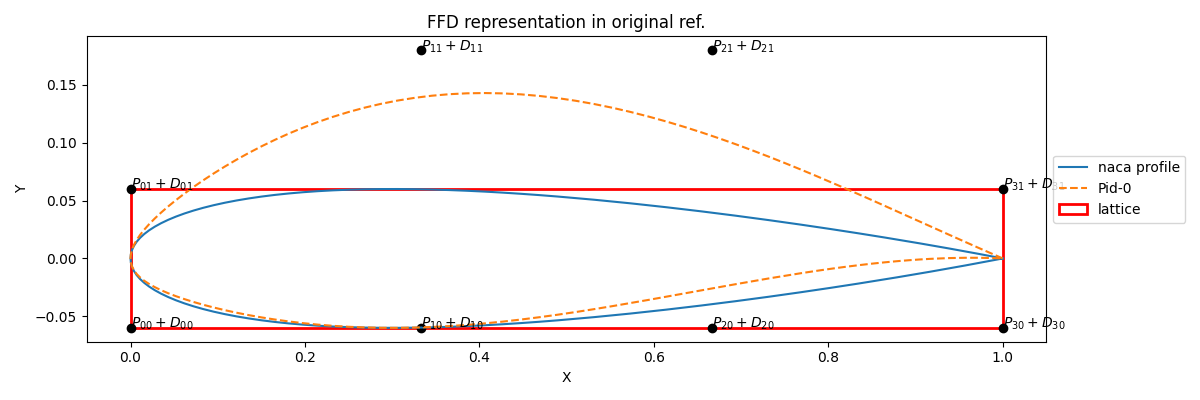
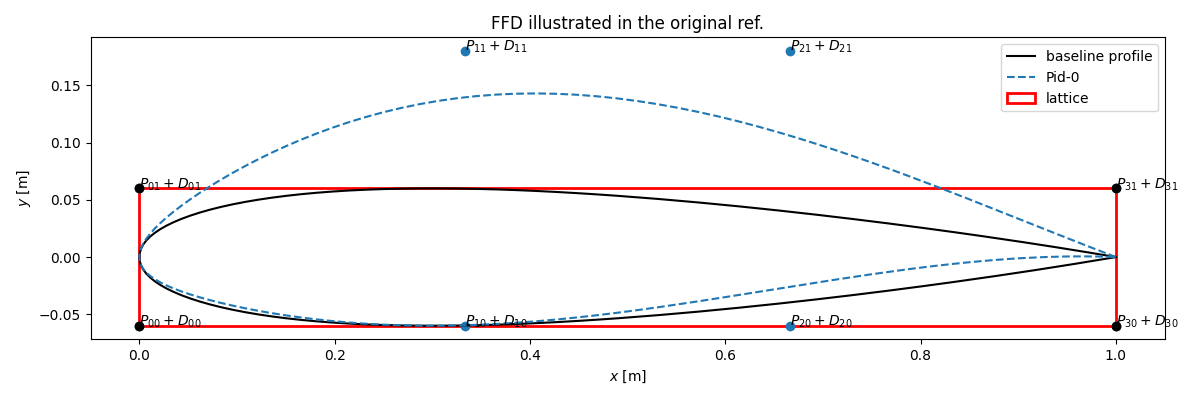
FFD padding (#41)
* introduce a pad argument to the FFD class that makes the lattice corners movable if necessary

* enhance ffd main script (less options, support for config, better plot)

* enables passing options to FFD_2D from config['ffd'] through FFD_POD_2D

* enforce retrocompatibility regarding ncontrol

* update FFD documentation

diff --git a/aero_optim/main/auto_ffd.py b/aero_optim/main/auto_ffd.py
@@ -19,13 +19,12 @@ logger = logging.getLogger()
 logging.basicConfig(stream=sys.stdout, level=logging.DEBUG)
 
 
-def plot_profile(ffd: FFD_2D, profiles: list[np.ndarray], delta: np.ndarray,
+def plot_profile(ffd: FFD_2D, profiles: list[np.ndarray], Delta: np.ndarray,
                  outdir: str, in_lat: bool = False):
     """
     Plots various generated elements in the lattice or original referential.
     """
     # change of referential if necessary
-    delta = ffd.pad_Delta(delta)
     pts = ffd.lat_pts if in_lat else ffd.pts
     profiles = [ffd.to_lat(pro) for pro in profiles] if in_lat else profiles
     x1 = ffd.to_lat(ffd.x1) if in_lat else ffd.x1
@@ -34,51 +33,45 @@ def plot_profile(ffd: FFD_2D, profiles: list[np.ndarray], delta: np.ndarray,
     # Figure
     fsize = (6, 6) if in_lat else (12, 4)
     _, ax = plt.subplots(figsize=fsize)
-    ax.plot(pts[:, 0], pts[:, 1], label="naca profile")
+    ax.plot(pts[:, 0], pts[:, 1], c="k", label="baseline profile")
+    # colors
+    colors = plt.rcParams['axes.prop_cycle'].by_key()['color']
     # plot profiles
     for pid, pro in enumerate(profiles):
-        ax.plot(pro[:, 0], pro[:, 1], linestyle='dashed', label=f"Pid-{pid}")
+        ax.plot(pro[:, 0], pro[:, 1], linestyle='dashed', c=colors[pid], label=f"Pid-{pid}")
     # plot lattice grid
     ax.add_patch(patches.Rectangle((x1[0], x1[1]), width, height, angle=0.0,
                  linewidth=2, edgecolor="r", facecolor="none", label="lattice"))
     # plot deformed points
-    if in_lat:
-        [ax.scatter(([i / ffd.L, j / ffd.M] + ffd.dPij(i, j, delta))[0],
-                    ([i / ffd.L, j / ffd.M] + ffd.dPij(i, j, delta))[1], c="k")
-            for i in range(ffd.L + 1) for j in range(ffd.M + 1)]
-        [ax.annotate(f"$P_{{{i}{j}}} + D_{{{i}{j}}}$",
-                     (([i / ffd.L, j / ffd.M] + ffd.dPij(i, j, delta))[0],
-                      ([i / ffd.L, j / ffd.M] + ffd.dPij(i, j, delta))[1]))
-            for i in range(ffd.L + 1) for j in range(ffd.M + 1)]
-        ax.set(xlabel="X", ylabel="Y", title="FFD representation in lattice ref.")
-    else:
-        [ax.scatter(ffd.from_lat([i / ffd.L, j / ffd.M] + ffd.dPij(i, j, delta))[0],
-                    ffd.from_lat([i / ffd.L, j / ffd.M] + ffd.dPij(i, j, delta))[1],
-                    c="k") for i in range(ffd.L + 1) for j in range(ffd.M + 1)]
-        [ax.annotate(f"$P_{{{i}{j}}} + D_{{{i}{j}}}$",
-                     (ffd.from_lat([i / ffd.L, j / ffd.M] + ffd.dPij(i, j, delta))[0],
-                      ffd.from_lat([i / ffd.L, j / ffd.M] + ffd.dPij(i, j, delta))[1]))
-            for i in range(ffd.L + 1) for j in range(ffd.M + 1)]
-        ax.set(xlabel="X", ylabel="Y", title="FFD representation in original ref.")
+    for did, delta in enumerate(Delta):
+        delta = ffd.pad_Delta(delta)
+        if in_lat:
+            [ax.scatter(([i / ffd.L, j / ffd.M] + ffd.dPij(i, j, delta))[0],
+                        ([i / ffd.L, j / ffd.M] + ffd.dPij(i, j, delta))[1], c=colors[did])
+                for i in range(ffd.L + 1) for j in range(ffd.M + 1)]
+            [ax.annotate(f"$P_{{{i}{j}}} + D_{{{i}{j}}}$",
+                         (([i / ffd.L, j / ffd.M] + ffd.dPij(i, j, delta))[0],
+                         ([i / ffd.L, j / ffd.M] + ffd.dPij(i, j, delta))[1]))
+                for i in range(ffd.L + 1) for j in range(ffd.M + 1)]
+            # black edges
+            [ax.scatter(*np.array([i, j]), c="k") for i in range(2) for j in range(2)]
+            ax.set(xlabel="$x$ [-]", ylabel="$y$ [-]", title="FFD illustrated in the lattice ref.")
+        else:
+            [ax.scatter(ffd.from_lat([i / ffd.L, j / ffd.M] + ffd.dPij(i, j, delta))[0],
+                        ffd.from_lat([i / ffd.L, j / ffd.M] + ffd.dPij(i, j, delta))[1],
+                        c=colors[did]) for i in range(ffd.L + 1) for j in range(ffd.M + 1)]
+            [ax.annotate(f"$P_{{{i}{j}}} + D_{{{i}{j}}}$",
+                         (ffd.from_lat([i / ffd.L, j / ffd.M] + ffd.dPij(i, j, delta))[0],
+                         ffd.from_lat([i / ffd.L, j / ffd.M] + ffd.dPij(i, j, delta))[1]))
+                for i in range(ffd.L + 1) for j in range(ffd.M + 1)]
+            # black edges
+            ax.set(xlabel="$x$ [m]", ylabel="$y$ [m]", title="FFD illustrated in the original ref.")
+            [ax.scatter(*ffd.from_lat(np.array([i, j])), c="k") for i in range(2) for j in range(2)]
     # legend and display
-    ax.legend(loc="center left", bbox_to_anchor=(1, 0.5))
+    ax.legend(loc="upper right")
     plt.tight_layout()
     plt.savefig(os.path.join(outdir, "ffd.png"))
     plt.show()
-
-
-def get_sampler(sampler: str, ncontrol: int, seed: int = 123):
-    """
-    Builds scipy qmc sampler.
-    """
-    if sampler not in ["lhs", "sobol", "halton"]:
-        raise Exception(f"Unrecognized sampler {sampler}")
-    else:
-        return (
-            qmc.LatinHypercube(d=2 * ncontrol, seed=seed) if sampler == "lhs"
-            else qmc.Halton(d=2 * ncontrol, seed=seed) if sampler == "halton"
-            else qmc.Sobol(d=2 * ncontrol, seed=seed)
-        )
 
 
 def main():
@@ -90,48 +83,49 @@ def main():
         formatter_class=argparse.ArgumentDefaultsHelpFormatter)
 
     parser.add_argument(
-        "-f", "--file", type=str, help="baseline geometry: --datfile=/path/to/file.dat")
+        "-f", "--file", type=str, required=True, help="baseline geometry: --file=/path/to/file.dat")
     parser.add_argument(
-        "-o", "--outdir", type=str, help="output directory", default="output")
+        "-c", "--config", type=str, default="", help="config: --config=/path/to/config.json")
     parser.add_argument(
-        "-nc", "--ncontrol", type=int, help="number of control points on each side of the lattice",
-        default=3)
+        "-o", "--outdir", type=str, default="output", help="output directory")
     parser.add_argument(
-        "-np", "--nprofile", type=int, help="number of profiles to generate", default=3)
+        "-nc", "--ncontrol", type=int, default=3,
+        help="number of control points on each side of the lattice")
     parser.add_argument(
-        "-r", "--referential", action="store_true", help="plot new profiles in the lattice ref.")
-    parser.add_argument(
-        "-s", "--sampler", type=str, help="sampling technique [lhs, halton, sobol]", default="lhs")
+        "-np", "--nprofile", type=int, default=3, help="number of profiles to generate")
     parser.add_argument(
         "-d", "--delta", type=str, default=None, help="Delta: 'D10 D20 .. D2nc'")
     args = parser.parse_args()
 
+    # check input arguments
     check_file(args.file)
 
-    # FFD routine
-    # (i) Instantiate an FFD object
-    #  |  -> create the lattice box
-    #  |  -> project the baseline points in the lattice referential
-    # (ii) sample a random deformation
-    # (iii) Generate a new geometry applying the deformation to the baseline points
-    #  |  -> compute the displacements from the deformation and the
-    #  |     tensor product of the Bernstein basis polynomials
-    #  |  -> project the new profile back into the original referential
-    seed = 1234
-    ncontrol = args.ncontrol
-    ffd = FFD_2D(args.file, ncontrol)
-    if not args.delta:
-        sampler = get_sampler(args.sampler, ncontrol, seed)
-        sample = sampler.random(n=args.nprofile)
+    # build ffd config with header and padding options
+    ffd_config = {} if not args.config else args.config.get("ffd", {})
+    # Note: the config can also be used to pass arguments used in this script
+    # delta (list[float]): a deformation list [D10 D20 .. D2nc] (default=None)
+    delta = ffd_config.get("delta", None) if not args.delta else args.delta
+    # nprofile (int): number of profiles to generate (default=3, ignored if a delta is given)
+    nprofile = ffd_config.get("nprofile", args.nprofile)
+    # referential (bool): to plot the profiles in the lattice referential (default=False)
+    referential = ffd_config.get("referential", False)
+
+    # FFD object and displacements
+    ffd = FFD_2D(args.file, args.ncontrol, **ffd_config)
+    if not delta:
+        sampler = qmc.LatinHypercube(d=args.ncontrol * 2, seed=1234)
+        sample = sampler.random(n=nprofile)
         scaled_sample = qmc.scale(sample, -0.5, 0.5)
     else:
         scaled_sample = [np.array([float(d) for d in args.delta.split()])]
+    # FFD profiles
     profiles = []
     for Delta in scaled_sample:
         profiles.append(ffd.apply_ffd(Delta))
     for pid, profile in enumerate(profiles):
-        _ = ffd.write_ffd(profile, scaled_sample[pid], args.outdir)
-    plot_profile(ffd, profiles, Delta, args.outdir, args.referential)
+        _ = ffd.write_ffd(profile, scaled_sample[pid], args.outdir, cid=pid)
+    # FFD figure
+    plot_profile(ffd, profiles, scaled_sample, args.outdir, referential)
 
 
 if __name__ == "__main__":

diff --git a/aero_optim/ffd/ffd.py b/aero_optim/ffd/ffd.py
@@ -80,9 +80,11 @@ class FFD_2D(Deform):
               |                         |
             P00 ----- P10 ---- P20 ---- P30
 
-    with (P00, P30, P01, P31) fixed.
+    with (P00, P30, P01, P31) fixed if pad = (1, 1).
     """
-    def __init__(self, dat_file: str, ncontrol: int, header: int = 2):
+    def __init__(
+            self, dat_file: str, ncontrol: int, pad: tuple[int, int] = (1, 1), header: int = 2
+    ):
         """
         Instantiates the FFD_2D object.
 
@@ -90,6 +92,7 @@ class FFD_2D(Deform):
 
         - dat_file (str): path to input_geometry.dat.
         - ncontrol (int): the number of control points on each side of the lattice.
+        - pad (tuple[int, int]): padding around the displacement vector.
         - header (int): the number of header lines in dat_file.
 
         **Inner**
@@ -105,7 +108,9 @@ class FFD_2D(Deform):
         - lat_pts (np.ndarray): the geometry coordinates in the lattice referential.
         """
         super().__init__(dat_file, ncontrol, header)
-        self.L: int = ncontrol + 1
+        assert pad in [(0, 0), (1, 1), (0, 1), (1, 0)], f"wrong padding: {pad}"
+        self.pad: tuple[int, int] = pad
+        self.L: int = ncontrol - 1 + sum(pad)
         self.M: int = 1
         self.build_lattice()
         self.lat_pts: np.ndarray = self.to_lat(self.pts)
@@ -156,8 +161,8 @@ class FFD_2D(Deform):
 
         - Delta (np.ndarray): the non-padded deformation vector.
         """
-        return np.concatenate((np.pad(Delta[:self.ncontrol], (1, 1)),
-                               np.pad(Delta[self.ncontrol:], (1, 1))))
+        return np.concatenate((np.pad(Delta[:self.ncontrol], self.pad),
+                               np.pad(Delta[self.ncontrol:], self.pad)))
 
     def apply_ffd(self, Delta: np.ndarray) -> np.ndarray:
         """
@@ -191,8 +196,8 @@ class FFD_POD_2D(Deform):
             ffd_ncontrol: int,
             ffd_dataset_size: int,
             ffd_bound: tuple[Any],
-            header: int = 2,
-            seed: int = 123
+            seed: int = 123,
+            **kwargs
     ):
         """
         Instantiates the FFD_POD_2D object.
@@ -204,8 +209,8 @@ class FFD_POD_2D(Deform):
         - ffd_ncontrol (int): the number of FFD control points.
         - ffd_dataset_size (int): the number of ffd profiles in the POD dataset.
         - ffd_bound (tuple[Any]): the ffd dataset deformation boundaries.
-        - header (int): the number of header lines in dat_file.
         - seed (int): seed for the POD dataset sampling.
+        - kwargs (dict): additional options to be passed to the FFD_2D inner object.
 
         **Inner**
 
@@ -217,11 +222,11 @@ class FFD_POD_2D(Deform):
 
         - ffd (FFD_2D): the ffd object used to build the POD dataset.
         """
-        super().__init__(dat_file, ffd_ncontrol, header)
+        super().__init__(dat_file, ffd_ncontrol, **kwargs)
         self.pod_ncontrol = pod_ncontrol
         self.ffd_ncontrol = ffd_ncontrol
         self.ffd_dataset_size = ffd_dataset_size
-        self.ffd = FFD_2D(dat_file, ffd_ncontrol // 2, header)
+        self.ffd = FFD_2D(dat_file, ffd_ncontrol // 2, **kwargs)
         self.ffd_bound = ffd_bound
         self.seed = seed
         self.build_pod_dataset()

diff --git a/aero_optim/optim/optimizer.py b/aero_optim/optim/optimizer.py
@@ -192,7 +192,9 @@ class Optimizer(ABC):
         if not self.FFDClass:
             if self.ffd_type == FFD_TYPE[0]:
                 self.FFDClass = FFD_2D
-                self.ffd = self.FFDClass(self.dat_file, self.n_design // 2)
+                self.ffd = self.FFDClass(
+                    self.dat_file, self.n_design // 2, **self.config.get("ffd", {})
+                )
             elif self.ffd_type == FFD_TYPE[1]:
                 self.FFDClass = FFD_POD_2D
                 self.config["ffd"]["ffd_ncontrol"] = self.n_design

diff --git a/docs/ffd.md b/docs/ffd.md
@@ -20,10 +20,18 @@ Free-Form Deformation is implemented in `FFD_2D`, a straightforward class instan
 - `file (str)` which indicates the filename of the baseline geometry to be deformed,
 - `ncontrol (int)` which indicates the number of design points on each side of the lattice.
 
+And two optional arguments:
+
+- `pad (tuple[int, int])` which can be used to make the lattice edges moveable,
+- `header (int)` which is used to specify the number of header lines in `file`.
+
 !!! Warning
     The input file is expected to have a specific formatting i.e. a 2 line header followed by coordinates given as tabulated entries (one point per row) with single space separators (see [`data/naca12.dat`](https://github.com/mschouler/aero-optim/blob/master/examples/NACA12/data/naca12.dat) for an example).
 
 Once instantiated, the `apply_ffd(Delta)` method can be used to perform the deformation corresponding to the array `Delta`.
+
+!!! Note
+    During an FFD-based optimization, `FFD_2D` is initialized with `ncontrol = n_design // 2`. 
 
 #### Illustration
 An FFD with 2 control points (i.e. 4 in total) and the deformation vector `Delta = (0., 0., 1., 1.)` will yield the following profile:
@@ -36,20 +44,19 @@ Considering the figure notations, one notices that the deformation vector `Delta
 The `auto_ffd.py` scripts is called with the `ffd` command. It enables basic testing and visualization. It comes with a few options:
 ```py
 ffd --help
-usage: ffd [-h] [-f FILE] [-o OUTDIR] [-nc NCONTROL] [-np NPROFILE] [-r] [-s SAMPLER] [-d [DELTA ...]]
+usage: ffd [-h] -f FILE [-c CONFIG] [-o OUTDIR] [-nc NCONTROL] [-np NPROFILE] [-d DELTA]
 
 options:
   -h, --help            show this help message and exit
-  -f FILE, --file FILE  baseline geometry: --datfile=/path/to/file.dat (default: None)
+  -f FILE, --file FILE  baseline geometry: --file=/path/to/file.dat (default: None)
+  -c CONFIG, --config CONFIG
+                        config: --config=/path/to/config.json (default: )
   -o OUTDIR, --outdir OUTDIR
                         output directory (default: output)
   -nc NCONTROL, --ncontrol NCONTROL
                         number of control points on each side of the lattice (default: 3)
   -np NPROFILE, --nprofile NPROFILE
                         number of profiles to generate (default: 3)
-  -r, --referential     plot new profiles in the lattice ref. (default: False)
-  -s SAMPLER, --sampler SAMPLER
-                        sampling technique [lhs, halton, sobol] (default: lhs)
   -d DELTA, --delta DELTA
                         Delta: 'D10 D20 .. D2nc' (default: None)
 ```
@@ -58,14 +65,11 @@ For instance, the command below will perform 3 control points FFDs for 4 random 
 ```py
 # from aero-optim to naca_base
 cd examples/NACA12/naca_base
-ffd -f ../data/naca12.dat -np 4 -nc 3 -s lhs
+ffd -f ../data/naca12.dat -np 4 -nc 3
 ```
 <p float="left">
   <img src="../Figures/naca12_lhs.png" width="100%" />
 </p>
-
-!!! Note
-    The positions of the deformed control points on the generated figure correspond to those of the last profile, in this case `Pid-3`.
 
 ### 2D FFD & POD
 The coupling between POD and FFD was implemented in the `FFD_pod_2D` class. Its objective is to build a dataset of `n` FFD perturbed profiles sampled from LHS and to use it to perform POD-based data reduction from the FFD dimension `d` to a smaller dimension `d*`. Details on how to do so are given in ([POD 1](https://doi.org/10.2514/6.2008-6584)) and ([POD 2](https://doi.org/10.2514/6.2017-3057)).
